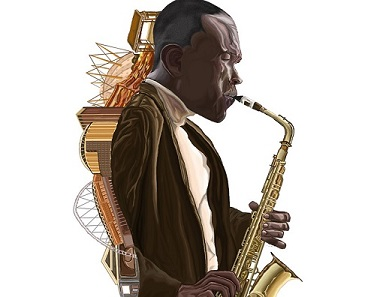
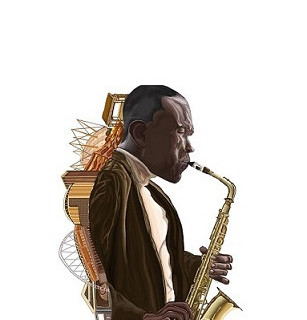
Project display changes

diff --git a/css/style.css b/css/style.css
@@ -180,12 +180,12 @@ header{
 
 .xop-img-1 {
 	background: linear-gradient(rgba(0, 0, 0, 0.50), rgba(0, 0, 0, 0.10)),
-	url(../images/converter.jpg);
+	url(../images/converter.png);
 }
 
 .xop-img-2 {
 	background: linear-gradient(rgba(0, 0, 0, 0.50), rgba(0, 0, 0, 0.10)),
-	url(../images/gallium.jpg);
+	url(../images/portfolio.png);
 }
 
 .xop-img-3 {
@@ -195,7 +195,7 @@ header{
 
 .xop-img-4 {
 	background: linear-gradient(rgba(0, 0, 0, 0.50), rgba(0, 0, 0, 0.10)),
-	url(../images/4.png);
+	url(../images/Stability.png);
 }
 
 .xop-info {

diff --git a/index.html b/index.html
@@ -71,7 +71,7 @@
 									<div class="xop-box xop-img-3">
 										<a href="#">
 											<h3>Graphic Design Work</h3>
-											<p>Gaming website</p>
+											<p>Music website</p>
 										</a>
 									</div>
 								</li>
